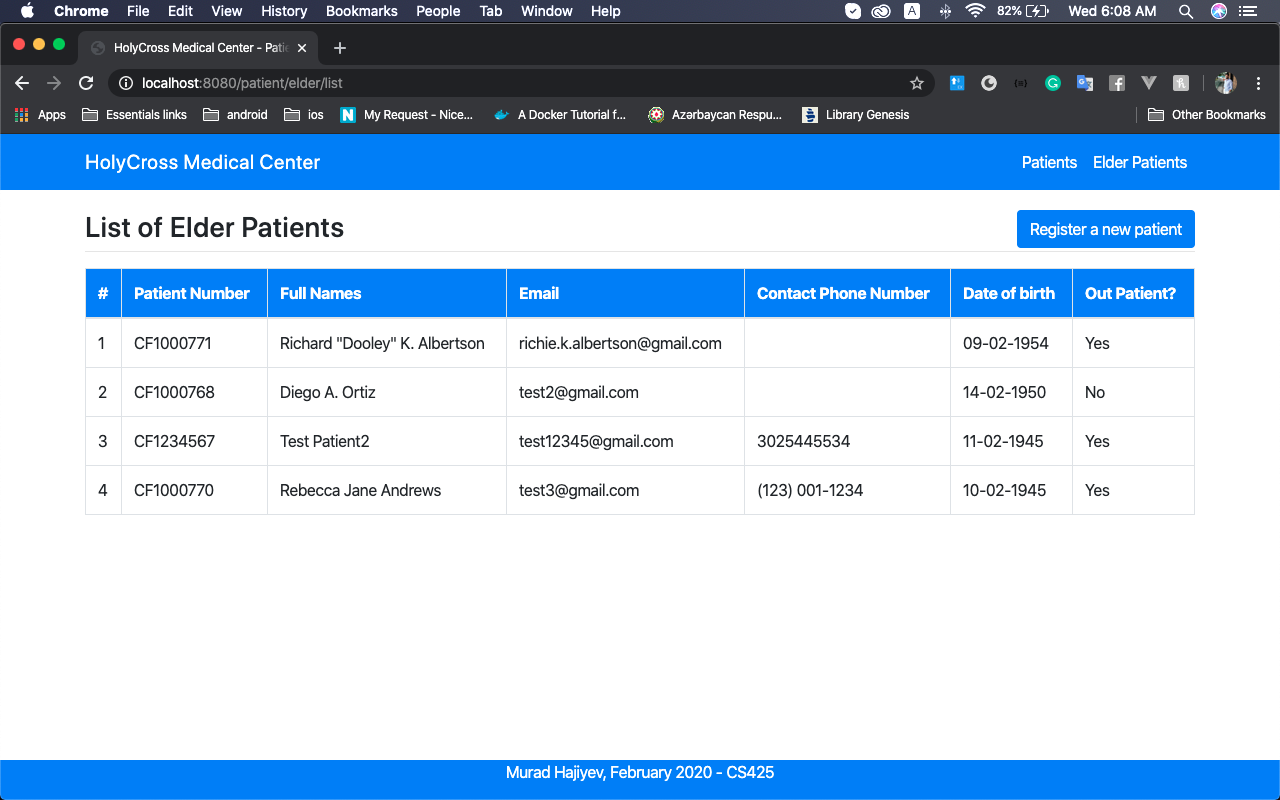
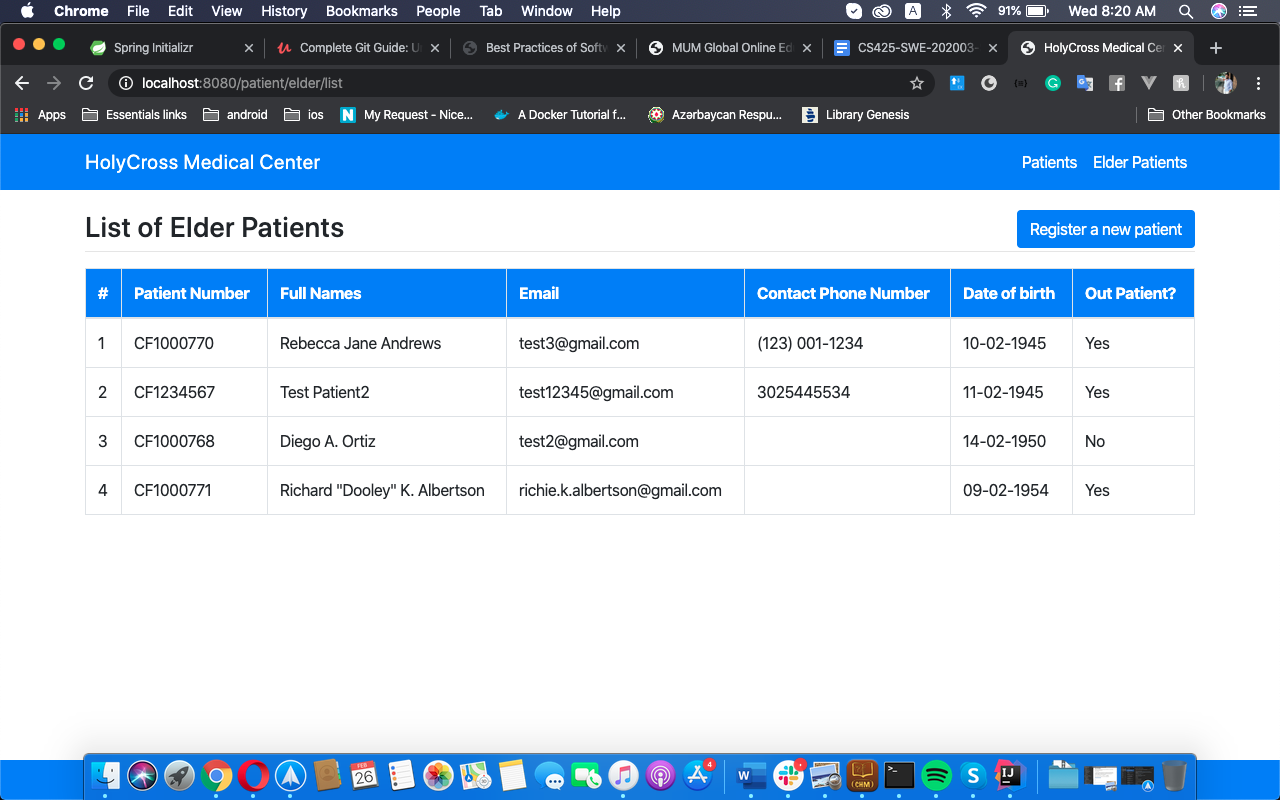
fix sort problem

diff --git a/src/main/java/edu/miu/cs425/hcmc/dao/PatientRepository.java b/src/main/java/edu/miu/cs425/hcmc/dao/PatientRepository.java
@@ -8,6 +8,6 @@ import java.util.List;
 
 public interface PatientRepository extends JpaRepository<Patient, Integer> {
     List<Patient> findAllByOrderByFullNameAsc();
-    @Query(value = "SELECT p.* FROM patient p WHERE FLOOR(DATEDIFF(NOW(), p.date_of_birth)/365.25) >= 65 ORDER BY p.date_of_birth DESC", nativeQuery = true)
+    @Query(value = "SELECT p.* FROM patient p WHERE FLOOR(DATEDIFF(NOW(), p.date_of_birth)/365.25) >= 65 ORDER BY p.date_of_birth ASC", nativeQuery = true)
     List<Patient> findAllElderPatients();
 }
